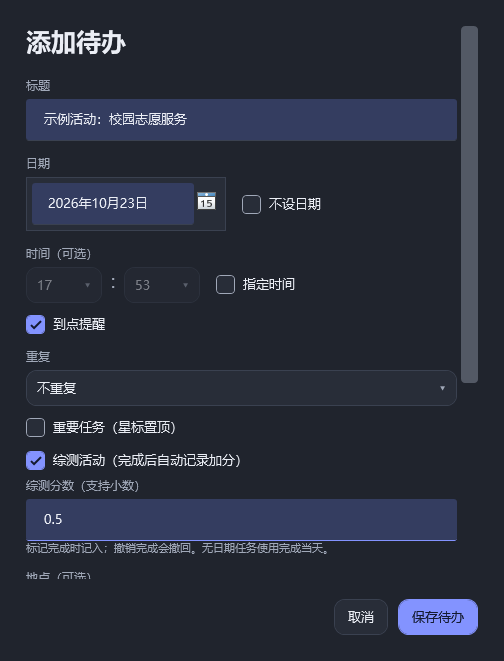
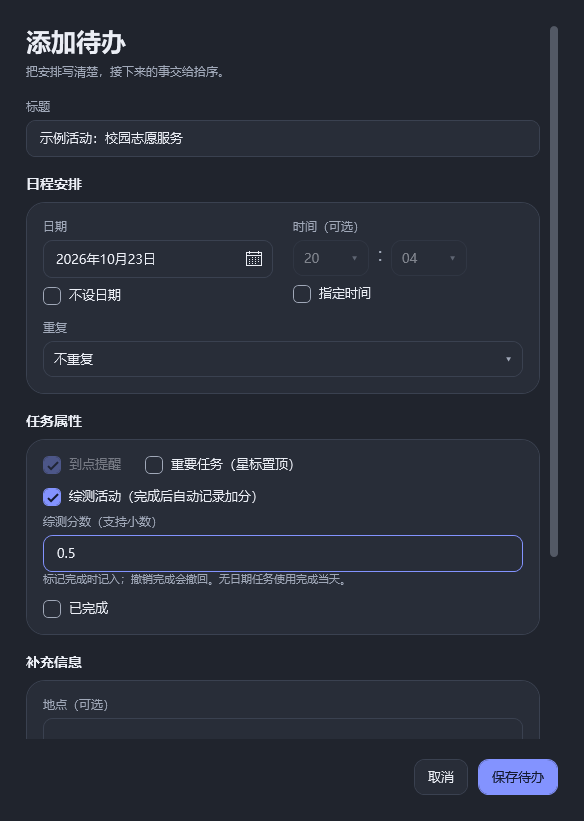
style: group task editor fields and unify form controls

diff --git a/src/Styles.xaml b/src/Styles.xaml
@@ -102,8 +102,8 @@
     <Setter Property="Cursor" Value="Hand"/>
     <Setter Property="VerticalContentAlignment" Value="Center"/>
     <Setter Property="Template"><Setter.Value><ControlTemplate TargetType="CheckBox">
-      <StackPanel Orientation="Horizontal">
-        <Border x:Name="Box" Width="19" Height="19" BorderBrush="{DynamicResource Muted}" BorderThickness="1" CornerRadius="4" Background="{DynamicResource Panel}" VerticalAlignment="Center">
+      <StackPanel Orientation="Horizontal" Background="Transparent">
+        <Border x:Name="Box" Width="18" Height="18" BorderBrush="{DynamicResource Muted}" BorderThickness="1" CornerRadius="5" Background="{DynamicResource Panel}" VerticalAlignment="Center">
           <Path x:Name="Tick" Data="M 4,9 L 7,12 L 14,5" Stroke="{DynamicResource AccentInk}" StrokeThickness="2" Visibility="Collapsed"/>
         </Border>
         <ContentPresenter Margin="8,0,0,0" VerticalAlignment="Center" RecognizesAccessKey="True"/>
@@ -111,17 +111,33 @@
       <ControlTemplate.Triggers>
         <Trigger Property="IsChecked" Value="True"><Setter TargetName="Box" Property="Background" Value="{DynamicResource Accent}"/><Setter TargetName="Box" Property="BorderBrush" Value="{DynamicResource Accent}"/><Setter TargetName="Tick" Property="Visibility" Value="Visible"/></Trigger>
         <Trigger Property="IsKeyboardFocused" Value="True"><Setter TargetName="Box" Property="BorderBrush" Value="{DynamicResource Accent}"/><Setter TargetName="Box" Property="BorderThickness" Value="2"/></Trigger>
+        <Trigger Property="IsMouseOver" Value="True"><Setter TargetName="Box" Property="BorderBrush" Value="{DynamicResource Accent}"/></Trigger>
+        <Trigger Property="IsEnabled" Value="False"><Setter Property="Opacity" Value="0.4"/></Trigger>
       </ControlTemplate.Triggers>
     </ControlTemplate></Setter.Value></Setter>
   </Style>
   <Style TargetType="TextBox">
-    <Setter Property="Foreground" Value="{DynamicResource Text}"/><Setter Property="Background" Value="{DynamicResource Soft}"/><Setter Property="BorderBrush" Value="{DynamicResource Line}"/><Setter Property="BorderThickness" Value="0,0,0,1"/><Setter Property="Padding" Value="8,6"/><Setter Property="CaretBrush" Value="{DynamicResource Accent}"/>
+    <Setter Property="Foreground" Value="{DynamicResource Text}"/><Setter Property="Background" Value="{DynamicResource Panel}"/><Setter Property="BorderBrush" Value="{DynamicResource Line}"/><Setter Property="BorderThickness" Value="1"/><Setter Property="Padding" Value="11,9"/><Setter Property="CaretBrush" Value="{DynamicResource Accent}"/><Setter Property="SelectionBrush" Value="{DynamicResource Accent}"/><Setter Property="SelectionOpacity" Value="0.25"/>
     <Setter Property="Template"><Setter.Value><ControlTemplate TargetType="TextBox">
-      <Border x:Name="Frame" Background="{TemplateBinding Background}" BorderBrush="{TemplateBinding BorderBrush}" BorderThickness="{TemplateBinding BorderThickness}" CornerRadius="3" Padding="{TemplateBinding Padding}"><ScrollViewer x:Name="PART_ContentHost"/></Border>
-      <ControlTemplate.Triggers><Trigger Property="IsKeyboardFocused" Value="True"><Setter TargetName="Frame" Property="BorderBrush" Value="{DynamicResource Accent}"/></Trigger></ControlTemplate.Triggers>
+      <Border x:Name="Frame" Background="{TemplateBinding Background}" BorderBrush="{TemplateBinding BorderBrush}" BorderThickness="{TemplateBinding BorderThickness}" CornerRadius="9"><ScrollViewer x:Name="PART_ContentHost"/></Border>
+      <ControlTemplate.Triggers><Trigger Property="IsMouseOver" Value="True"><Setter TargetName="Frame" Property="BorderBrush" Value="{DynamicResource Muted}"/></Trigger><Trigger Property="IsKeyboardFocused" Value="True"><Setter TargetName="Frame" Property="BorderBrush" Value="{DynamicResource Accent}"/></Trigger><Trigger Property="IsEnabled" Value="False"><Setter Property="Opacity" Value="0.4"/></Trigger></ControlTemplate.Triggers>
     </ControlTemplate></Setter.Value></Setter>
   </Style>
-  <Style TargetType="DatePicker"><Setter Property="Foreground" Value="{DynamicResource Text}"/><Setter Property="Background" Value="{DynamicResource Panel}"/><Setter Property="BorderBrush" Value="{DynamicResource Line}"/><Setter Property="Padding" Value="5"/></Style>
+  <Style TargetType="DatePicker">
+    <Setter Property="Foreground" Value="{DynamicResource Text}"/><Setter Property="Background" Value="{DynamicResource Panel}"/><Setter Property="BorderBrush" Value="{DynamicResource Line}"/>
+    <Setter Property="MinHeight" Value="38"/>
+    <Setter Property="Template"><Setter.Value><ControlTemplate TargetType="DatePicker">
+      <Grid x:Name="PART_Root">
+        <Border x:Name="DateFrame" CornerRadius="9" Background="{TemplateBinding Background}" BorderBrush="{TemplateBinding BorderBrush}" BorderThickness="1"/>
+        <Grid Margin="1"><Grid.ColumnDefinitions><ColumnDefinition Width="*"/><ColumnDefinition Width="36"/></Grid.ColumnDefinitions>
+          <p:DatePickerTextBox x:Name="PART_TextBox" Background="Transparent" BorderThickness="0" Foreground="{TemplateBinding Foreground}" Padding="10,8" VerticalContentAlignment="Center"/>
+          <Button x:Name="PART_Button" Grid.Column="1" Style="{StaticResource Quiet}" Padding="6" Margin="2" MinHeight="0" Focusable="False" ToolTip="选择日期" AutomationProperties.Name="打开日期日历"><TextBlock Text="&#xE787;" FontFamily="Segoe MDL2 Assets" FontSize="16"/></Button>
+        </Grid>
+        <Popup x:Name="PART_Popup" Placement="Bottom" AllowsTransparency="True" StaysOpen="False" Focusable="False"/>
+      </Grid>
+      <ControlTemplate.Triggers><Trigger Property="IsMouseOver" Value="True"><Setter TargetName="DateFrame" Property="BorderBrush" Value="{DynamicResource Muted}"/></Trigger><Trigger Property="IsKeyboardFocusWithin" Value="True"><Setter TargetName="DateFrame" Property="BorderBrush" Value="{DynamicResource Accent}"/></Trigger><Trigger Property="IsEnabled" Value="False"><Setter Property="Opacity" Value="0.4"/></Trigger></ControlTemplate.Triggers>
+    </ControlTemplate></Setter.Value></Setter>
+  </Style>
   <Style TargetType="ComboBox">
     <Setter Property="Foreground" Value="{DynamicResource Text}"/><Setter Property="Background" Value="{DynamicResource Panel}"/><Setter Property="BorderBrush" Value="{DynamicResource Line}"/>
     <Setter Property="MaxDropDownHeight" Value="220"/>
@@ -134,12 +150,13 @@
         <ContentPresenter Content="{TemplateBinding SelectionBoxItem}" ContentTemplate="{TemplateBinding SelectionBoxItemTemplate}" IsHitTestVisible="False" Margin="11,5,25,5" VerticalAlignment="Center"/>
         <TextBlock Text="▾" Foreground="{DynamicResource Muted}" IsHitTestVisible="False" HorizontalAlignment="Right" VerticalAlignment="Center" Margin="0,0,9,0"/>
         <Popup x:Name="PART_Popup" IsOpen="{TemplateBinding IsDropDownOpen}" Placement="Bottom" AllowsTransparency="True" Focusable="False">
-          <Border Background="{DynamicResource Panel}" BorderBrush="{DynamicResource Line}" BorderThickness="1" CornerRadius="10" MinWidth="{Binding ActualWidth, RelativeSource={RelativeSource TemplatedParent}}" MaxHeight="{TemplateBinding MaxDropDownHeight}">
+          <Border Padding="4" Background="{DynamicResource Panel}" BorderBrush="{DynamicResource Line}" BorderThickness="1" CornerRadius="10" MinWidth="{Binding ActualWidth, RelativeSource={RelativeSource TemplatedParent}}" MaxHeight="{TemplateBinding MaxDropDownHeight}">
             <ScrollViewer VerticalScrollBarVisibility="Auto" HorizontalScrollBarVisibility="Disabled"><ItemsPresenter/></ScrollViewer>
           </Border>
         </Popup>
       </Grid>
       <ControlTemplate.Triggers>
+        <Trigger Property="IsMouseOver" Value="True"><Setter TargetName="Frame" Property="BorderBrush" Value="{DynamicResource Muted}"/></Trigger>
         <Trigger Property="IsKeyboardFocusWithin" Value="True"><Setter TargetName="Frame" Property="BorderBrush" Value="{DynamicResource Accent}"/></Trigger>
         <Trigger Property="IsEnabled" Value="False"><Setter Property="Opacity" Value="0.45"/></Trigger>
       </ControlTemplate.Triggers>
@@ -148,14 +165,22 @@
   <Style TargetType="ComboBoxItem">
     <Setter Property="Foreground" Value="{DynamicResource Text}"/><Setter Property="Padding" Value="12,7"/>
     <Setter Property="Template"><Setter.Value><ControlTemplate TargetType="ComboBoxItem">
-      <Border x:Name="Frame" Padding="{TemplateBinding Padding}" Background="Transparent"><ContentPresenter/></Border>
+      <Border x:Name="Frame" CornerRadius="6" Padding="{TemplateBinding Padding}" Background="Transparent"><ContentPresenter/></Border>
       <ControlTemplate.Triggers>
         <Trigger Property="IsHighlighted" Value="True"><Setter TargetName="Frame" Property="Background" Value="{DynamicResource Soft}"/></Trigger>
         <Trigger Property="IsSelected" Value="True"><Setter TargetName="Frame" Property="Background" Value="{DynamicResource Soft}"/></Trigger>
       </ControlTemplate.Triggers>
     </ControlTemplate></Setter.Value></Setter>
   </Style>
-  <Style TargetType="p:DatePickerTextBox" BasedOn="{StaticResource {x:Type TextBox}}"><Setter Property="Padding" Value="7,6"/></Style>
+  <Style TargetType="p:DatePickerTextBox" BasedOn="{StaticResource {x:Type TextBox}}"><Setter Property="Padding" Value="10,8"/></Style>
+  <Style x:Key="FormScroll" TargetType="ScrollViewer">
+    <Setter Property="Template"><Setter.Value><ControlTemplate TargetType="ScrollViewer">
+      <Grid><Grid.ColumnDefinitions><ColumnDefinition Width="*"/><ColumnDefinition Width="Auto"/></Grid.ColumnDefinitions>
+        <ScrollContentPresenter x:Name="PART_ScrollContentPresenter" CanContentScroll="{TemplateBinding CanContentScroll}" Margin="0,0,6,0"/>
+        <ScrollBar x:Name="PART_VerticalScrollBar" Grid.Column="1" Style="{DynamicResource {x:Type ScrollBar}}" Orientation="Vertical" Minimum="0" Maximum="{TemplateBinding ScrollableHeight}" ViewportSize="{TemplateBinding ViewportHeight}" Value="{TemplateBinding VerticalOffset}" Visibility="{TemplateBinding ComputedVerticalScrollBarVisibility}"/>
+      </Grid>
+    </ControlTemplate></Setter.Value></Setter>
+  </Style>
   <Style TargetType="Calendar"><Setter Property="Background" Value="{DynamicResource Panel}"/><Setter Property="Foreground" Value="{DynamicResource Text}"/></Style>
   <Style TargetType="p:CalendarDayButton" BasedOn="{StaticResource {x:Type Button}}">
     <Setter Property="Padding" Value="3"/><Setter Property="MinHeight" Value="27"/>
@@ -167,7 +192,7 @@
   </Style>
   <Style TargetType="p:CalendarButton" BasedOn="{StaticResource {x:Type Button}}"><Setter Property="Padding" Value="3"/><Setter Property="MinHeight" Value="27"/></Style>
   <Style TargetType="ScrollBar">
-    <Setter Property="Width" Value="8"/><Setter Property="Background" Value="Transparent"/><Setter Property="Margin" Value="4,0,0,0"/>
+    <Setter Property="Width" Value="8"/><Setter Property="MinWidth" Value="0"/><Setter Property="Background" Value="Transparent"/><Setter Property="Margin" Value="4,0,0,0"/>
     <Setter Property="Template"><Setter.Value><ControlTemplate TargetType="ScrollBar">
       <Track x:Name="PART_Track" Orientation="Vertical" IsDirectionReversed="True">
         <Track.DecreaseRepeatButton><RepeatButton Command="{x:Static ScrollBar.PageUpCommand}" Focusable="False" Opacity="0"/></Track.DecreaseRepeatButton>

diff --git a/src/Ui.cs b/src/Ui.cs
@@ -29,7 +29,7 @@ namespace DeskTodo
             var border = new Border { Child = content, Padding = padding, CornerRadius = new CornerRadius(18), BorderThickness = new Thickness(1) };
             border.SetResourceReference(Border.BackgroundProperty, "Panel"); border.SetResourceReference(Border.BorderBrushProperty, "Line"); return border;
         }
-        public static ScrollViewer Scroll(UIElement content) { return new ScrollViewer { Content = content, VerticalScrollBarVisibility = ScrollBarVisibility.Auto, HorizontalScrollBarVisibility = ScrollBarVisibility.Disabled }; }
+        public static ScrollViewer Scroll(UIElement content) { var scroll = new ScrollViewer { Content = content, VerticalScrollBarVisibility = ScrollBarVisibility.Auto, HorizontalScrollBarVisibility = ScrollBarVisibility.Disabled }; scroll.SetResourceReference(FrameworkElement.StyleProperty, "FormScroll"); return scroll; }
         public static void Icon(Window window)
         {
             window.SetResourceReference(FrameworkElement.StyleProperty, typeof(Window));
@@ -131,7 +131,7 @@ namespace DeskTodo
     {
         public EditWindow(AppController app, TodoItem existing, DateTime? initialDate)
         {
-            Title = existing == null ? "添加待办" : "编辑待办"; Width = 520; Height = Math.Min(700, SystemParameters.WorkArea.Height - 80); MinWidth = 450; MinHeight = 520;
+            Title = existing == null ? "添加待办" : "编辑待办"; Width = 600; Height = Math.Min(860, SystemParameters.WorkArea.Height - 64); MinWidth = 500; MinHeight = 580;
             WindowStartupLocation = WindowStartupLocation.CenterScreen; ShowInTaskbar = false; Ui.Icon(this);
             SourceInitialized += (s, e) => NativeDesktop.DarkTitle(this, app.Settings.Theme == "dark");
             var root = new DockPanel { Margin = new Thickness(26) }; Content = root;
@@ -189,6 +189,31 @@ namespace DeskTodo
             var tags = new TextBox { Text = existing == null ? "" : String.Join("，", existing.Tags), MaxLength = 220, ToolTip = "例如：课程，论文，生活；最多 10 个，每个最多 20 字" }; AutomationProperties.SetName(tags, "待办标签"); fields.Children.Add(tags);
             var done = new CheckBox { Content = "已完成", IsChecked = existing != null && existing.Done, Margin = new Thickness(0, 14, 0, 0) }; fields.Children.Add(done);
             var error = Ui.Text("", 12, "Danger"); error.Margin = new Thickness(0, 8, 0, 0); fields.Children.Add(error);
+            var heading = fields.Children[0];
+            var repeatHint = fields.Children.OfType<TextBlock>().FirstOrDefault(t => t.Text.StartsWith("编辑只影响当次"));
+            fields.Children.Clear(); fields.Children.Add(heading);
+            var subtitle = Ui.Text("把安排写清楚，接下来的事交给拾序。", 12, "Muted"); subtitle.Margin = new Thickness(0, 6, 0, 0); fields.Children.Add(subtitle);
+            fields.Children.Add(titleLabel); fields.Children.Add(title);
+            Action<string, UIElement[]> section = (name, controls) =>
+            {
+                var label = Ui.Text(name, 14, "Text", true); label.Margin = new Thickness(0, 18, 0, 9); fields.Children.Add(label);
+                var body = new StackPanel(); foreach (var control in controls) body.Children.Add(control); fields.Children.Add(Ui.Card(body, new Thickness(16)));
+            };
+            dateRow.Orientation = Orientation.Vertical; timeRow.Orientation = Orientation.Vertical;
+            noDate.Margin = timed.Margin = new Thickness(0, 9, 0, 0); picker.Width = Double.NaN; picker.HorizontalAlignment = HorizontalAlignment.Stretch;
+            dateLabel.Margin = timeLabel.Margin = new Thickness(0, 0, 0, 6);
+            var dateColumn = new StackPanel { Margin = new Thickness(0, 0, 10, 0) }; dateColumn.Children.Add(dateLabel); dateColumn.Children.Add(dateRow);
+            var timeColumn = new StackPanel { Margin = new Thickness(10, 0, 0, 0) }; timeColumn.Children.Add(timeLabel); timeColumn.Children.Add(timeRow);
+            var scheduleGrid = new Grid(); scheduleGrid.ColumnDefinitions.Add(new ColumnDefinition()); scheduleGrid.ColumnDefinitions.Add(new ColumnDefinition());
+            scheduleGrid.Children.Add(dateColumn); Grid.SetColumn(timeColumn, 1); scheduleGrid.Children.Add(timeColumn);
+            var scheduleFields = new StackPanel(); scheduleFields.Children.Add(scheduleGrid); scheduleFields.Children.Add(repeatLabel); scheduleFields.Children.Add(repeat); if (repeatHint != null) scheduleFields.Children.Add(repeatHint);
+            section("日程安排", new UIElement[] { scheduleFields });
+            reminder.Margin = new Thickness(0, 0, 24, 0); important.Margin = new Thickness(0);
+            var flags = new WrapPanel(); flags.Children.Add(reminder); flags.Children.Add(important);
+            done.Margin = new Thickness(0, 14, 0, 0); section("任务属性", new UIElement[] { flags, credit, creditFields, done });
+            locationLabel.Margin = new Thickness(0, 0, 0, 6);
+            section("补充信息", new UIElement[] { locationLabel, location, tagLabel, tags, noteLabel, note });
+            fields.Children.Add(error);
             var save = Ui.Button("保存待办", () =>
             {
                 if (String.IsNullOrWhiteSpace(title.Text)) { error.Text = "请填写待办标题。"; title.Focus(); return; }

diff --git a/src/UiSmoke.cs b/src/UiSmoke.cs
@@ -453,6 +453,32 @@ namespace DeskTodo
                 var nextDay = new DateTime(2026, 10, 12); Controls<Button>(app.Main).First(b => AutomationProperties.GetName(b).StartsWith(nextDay.ToString("yyyy年M月d日") + "，")).RaiseEvent(new RoutedEventArgs(Button.ClickEvent)); app.Main.UpdateLayout();
                 int beforeCancel = app.Store.State.Items.Count; openEditor(nextDay, false); Check(app.Store.State.Items.Count == beforeCancel, "cancelled dialog leaves tasks unchanged");
                 app.Main.SelectDay(new DateTime(2026, 10, 11)); app.Main.Width = 960; app.Main.Height = 650; app.Main.UpdateLayout(); Capture(app.Main, Path.Combine(root, "calendar-small.png"));
+                foreach (string theme in new[] { "warm", "light", "dark" })
+                {
+                    app.ChangeTheme(theme); var form = new EditWindow(app, null, new DateTime(2026, 10, 23)) { Owner = app.Main }; form.Show(); Pump();
+                    try
+                    {
+                        Check(Controls<TextBlock>(form).Count(t => new[] { "日程安排", "任务属性", "补充信息" }.Contains(t.Text)) == 3, "editor has grouped sections " + theme);
+                        var date = Controls<DatePicker>(form).First(t => AutomationProperties.GetName(t) == "待办日期");
+                        var dateButton = (Button)date.Template.FindName("PART_Button", date); dateButton.RaiseEvent(new RoutedEventArgs(Button.ClickEvent)); Pump();
+                        var popup = (Popup)date.Template.FindName("PART_Popup", date);
+                        Check(date.IsDropDownOpen && popup.IsOpen && popup.Child is Calendar, "custom calendar button opens real date picker " + theme);
+                        ((Calendar)popup.Child).SelectedDate = new DateTime(2026, 10, 24); date.IsDropDownOpen = false; Pump();
+                        Check(date.SelectedDate == new DateTime(2026, 10, 24), "calendar selection updates date " + theme);
+                        var input = Controls<TextBox>(form).First(t => AutomationProperties.GetName(t) == "待办标题");
+                        Check(((Border)input.Template.FindName("Frame", input)).CornerRadius.TopLeft == 9, "rounded input style " + theme);
+                        var scroll = Controls<ScrollViewer>(form).First(t => t.Style == Application.Current.Resources["FormScroll"]);
+                        scroll.ScrollToEnd(); Pump(); var bar = (ScrollBar)scroll.Template.FindName("PART_VerticalScrollBar", scroll);
+                        Check(scroll.VerticalOffset > 0 && bar.ActualWidth == 8, "thin scrollbar reaches lower fields " + theme);
+                        Capture(form, Path.Combine(root, "editor-lower-" + theme + ".png"));
+                        scroll.ScrollToTop(); Controls<CheckBox>(form).First(t => AutomationProperties.GetName(t) == "综测活动").IsChecked = true; Pump();
+                        Capture(form, Path.Combine(root, "editor-" + theme + ".png"));
+                        form.Width = 500; form.Height = 600; Pump();
+                        Check(Controls<Button>(form).Single(b => (b.Content as string) == "保存待办").IsVisible && dateButton.IsVisible, "editor remains usable at minimum size " + theme);
+                        Capture(form, Path.Combine(root, "editor-small-" + theme + ".png"));
+                    }
+                    finally { form.Close(); }
+                }
                 File.WriteAllText(Path.Combine(root, "ui-report.txt"), "CALENDAR PASS: " + passed); app.Exit();
             }
             catch (Exception ex) { File.WriteAllText(Path.Combine(root, "ui-report.txt"), ex.ToString()); app.Exit(); Environment.ExitCode = 1; }

diff --git a/src/App.cs b/src/App.cs
@@ -16,7 +16,7 @@ using Forms = System.Windows.Forms;
 
 [assembly: AssemblyTitle("拾序")]
 [assembly: AssemblyProduct("拾序 · 桌面待办")]
-[assembly: AssemblyVersion("2.6.1.0")]
+[assembly: AssemblyVersion("2.6.2.0")]
 
 namespace DeskTodo
 {

diff --git a/docs/使用说明.md b/docs/使用说明.md
@@ -1,5 +1,7 @@
 # 拾序使用说明
 
+v2.6.2：编辑任务按“日程安排 / 任务属性 / 补充信息”分组，日期和时间并排展示。统一圆角输入框、日期图标按钮、选项反馈与细滚动条，底部固定保存和取消，小窗口可滚动访问全部字段。添加加分等界面共享新的输入控件。数据格式仍为 v8。
+
 v2.6.1：统一任务操作、换肤及小组件弹出菜单的圆角、图标、间距和高亮样式。删除操作位于独立分组并以红色标识，深色主题、多级菜单和选中标记同步适配。数据格式仍为 v8。
 
 v2.6.0：添加或编辑任务时，可勾选“综测活动”并填写正数分数（支持小数，上限 10000）。标记任务完成后，自动以任务名称、任务日期和分数记入综测；不设日期的任务使用完成当天。撤销完成或取消综测属性会同步撤回，重复点击不重复记账，编辑已完成活动会同步更新。重复任务每次活动分别记录，删除已完成任务保留历史加分。普通任务默认不计分。数据格式升级为 v8，旧版回退请使用升级前备份。
